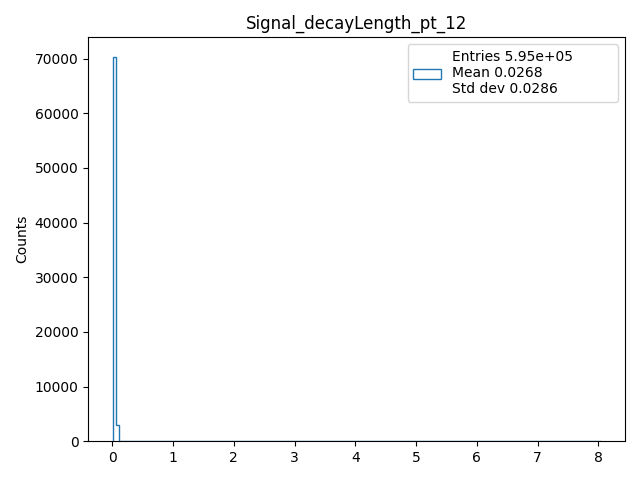
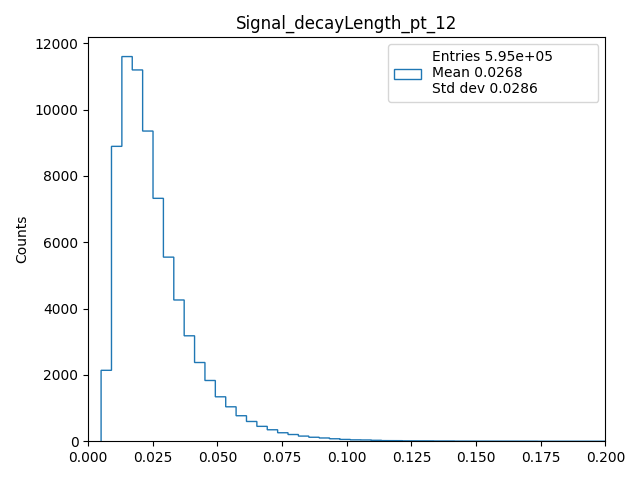
histograms with weights, adjusted scale

diff --git a/task2/make_hist2d_npy.py b/task2/make_hist2d_npy.py
@@ -51,19 +51,20 @@ def hist2d_signal(array, labels, source='s'):
     idx_dcaPion = label_position(labels, 'dcaPion')
     idx_ptKaon = label_position(labels, 'ptKaon')
     idx_dcaKaon = label_position(labels, 'dcaKaon')
+    weightArray = array[:, label_position(labels, 'matchHftWeight')]
 
-    make_hist_2d(array[:, idx_m], array[:, idx_pt], f'{source}_m_vs_pt', 'm', 'pt')
-    make_hist_2d(array[:, idx_pt], array[:, idx_decayLength], f'{source}_pt_vs_decayLength', 'pt', 'decayLength')
-    make_hist_2d(array[:, idx_pt], array[:, idx_dcaV0ToPv], f'{source}_pt_vs_dcaV0ToPv', 'pt', 'dcaV0ToPv')
-    make_hist_2d(array[:, idx_dcaV0ToPv], array[:, idx_ptPion], f'{source}_dcaV0ToPv_vs_ptPion', 'dcaV0ToPv', 'ptPion')
-    make_hist_2d(array[:, idx_dcaV0ToPv], array[:, idx_ptKaon], f'{source}_dcaV0ToPv_vs_ptKaon', 'dcaV0ToPv', 'ptKaon')
-    make_hist_2d(array[:, idx_pt], array[:, idx_dca12], f'{source}_pt_vs_dca12', 'pt', 'dca12')
-    make_hist_2d(array[:, idx_pt], array[:, idx_ptPion], f'{source}_pt_vs_ptPion', 'pt', 'ptPion')
-    make_hist_2d(array[:, idx_pt], array[:, idx_ptKaon], f'{source}_pt_vs_ptKaon', 'pt', 'ptKaon')
-    make_hist_2d(array[:, idx_ptPion], array[:, idx_ptKaon], f'{source}_ptPion_vs_ptKaon', 'ptPion', 'ptKaon')
+    make_hist_2d(array[:, idx_m], array[:, idx_pt],150, f'{source}_m_vs_pt', 'm', 'pt', weights=weightArray)
+    make_hist_2d(array[:, idx_pt], array[:, idx_decayLength],150, f'{source}_pt_vs_decayLength', 'pt', 'decayLength', weights=weightArray,xy_lim=[[1,2],[0,.1]])
+    make_hist_2d(array[:, idx_pt], array[:, idx_dcaV0ToPv],150, f'{source}_pt_vs_dcaV0ToPv', 'pt', 'dcaV0ToPv', weights=weightArray, xy_lim=[[1,2],[0,.02]])
+    make_hist_2d(array[:, idx_dcaV0ToPv], array[:, idx_ptPion],150, f'{source}_dcaV0ToPv_vs_ptPion', 'dcaV0ToPv', 'ptPion', weights=weightArray, xy_lim=[[0,.02],[0,2.5]])
+    make_hist_2d(array[:, idx_dcaV0ToPv], array[:, idx_ptKaon], 150, f'{source}_dcaV0ToPv_vs_ptKaon', 'dcaV0ToPv', 'ptKaon', weights=weightArray, xy_lim=[[0,.02],[0,2.5]])
+    make_hist_2d(array[:, idx_pt], array[:, idx_dca12],200, f'{source}_pt_vs_dca12', 'pt', 'dca12', weights=weightArray)
+    make_hist_2d(array[:, idx_pt], array[:, idx_ptPion],150, f'{source}_pt_vs_ptPion', 'pt', 'ptPion', weights=weightArray)
+    make_hist_2d(array[:, idx_pt], array[:, idx_ptKaon],150, f'{source}_pt_vs_ptKaon', 'pt', 'ptKaon', weights=weightArray)
+    make_hist_2d(array[:, idx_ptPion], array[:, idx_ptKaon],200, f'{source}_ptPion_vs_ptKaon', 'ptPion', 'ptKaon', weights=weightArray)
 
 
-
+#[[0, 0.1],[0,2.5]]
 
 if __name__ == '__main__':
     main(sys.argv[1:])

diff --git a/task2/make_hist_npy.py b/task2/make_hist_npy.py
@@ -12,14 +12,14 @@ def make_hist_signal(array, labels):
     output_dir = 'img_with_weights/'
     make_hist(array[:, label_position(labels, 'm')], 220, 'Signal_mass_pt12', 'mass [GeV / c^2]', 1.862, 1.866, weights=weightArray, output_folder=output_dir)
     make_hist(array[:, label_position(labels, 'pt')], 150, 'Signal_pt_12', 'pt [GeV]', weights=weightArray, output_folder=output_dir)
-    make_hist(array[:, label_position(labels, 'decayLength')], 150, 'Signal_decayLength_pt_12', weights=weightArray, output_folder=output_dir)
+    make_hist(array[:, label_position(labels, 'decayLength')], 2000, 'Signal_decayLength_pt_12','',0,0.2, weights=weightArray, output_folder=output_dir)
     make_hist(array[:, label_position(labels, 'dca12')], 150, 'Signal_dca12_pt_12', weights=weightArray, output_folder=output_dir)
     
     make_hist(array[:, label_position(labels, 'ptKaon')], 150, 'Signal_ptKaon_pt_12', weights=weightArray, output_folder=output_dir)
-    make_hist(array[:, label_position(labels, 'dcaKaon')], 150, 'Signal_dcaKaon_pt_12', weights=weightArray, output_folder=output_dir)
+    make_hist(array[:, label_position(labels, 'dcaKaon')], 500, 'Signal_dcaKaon_pt_12', '', 0, 0.2, weights=weightArray, output_folder=output_dir)
 
     make_hist(array[:, label_position(labels, 'ptPion')], 150, 'Signal_ptPion_pt_12', weights=weightArray, output_folder=output_dir)
-    make_hist(array[:, label_position(labels, 'dcaPion')], 150, 'Signal_dcaPion_pt_12', weights=weightArray, output_folder=output_dir)
+    make_hist(array[:, label_position(labels, 'dcaPion')], 500, 'Signal_dcaPion_pt_12', '', 0, 0.2, weights=weightArray, output_folder=output_dir)
 
 def make_hist_background(array, labels):
     '''It requires output_folder directory to work!!!'''

diff --git a/task2/custom_fnk.py b/task2/custom_fnk.py
@@ -52,11 +52,11 @@ def make_hist(x, bins, title, x_label='', x_min=None, x_max=None, weights=None, 
     plt.savefig(img_path)
     #plt.show()
 
-def make_hist_2d(x, y, title, x_label='', y_label=''):
+def make_hist_2d(x, y, bins, title, x_label='', y_label='', weights=None, xy_lim=None):
     # clear plt buffer
     plt.clf()
 
-    plt.hist2d(x,y, bins=150)
+    plt.hist2d(x,y, bins=bins, weights=weights, range=xy_lim)
     plt.title(title)
     plt.xlabel(x_label)
     plt.ylabel(y_label)
